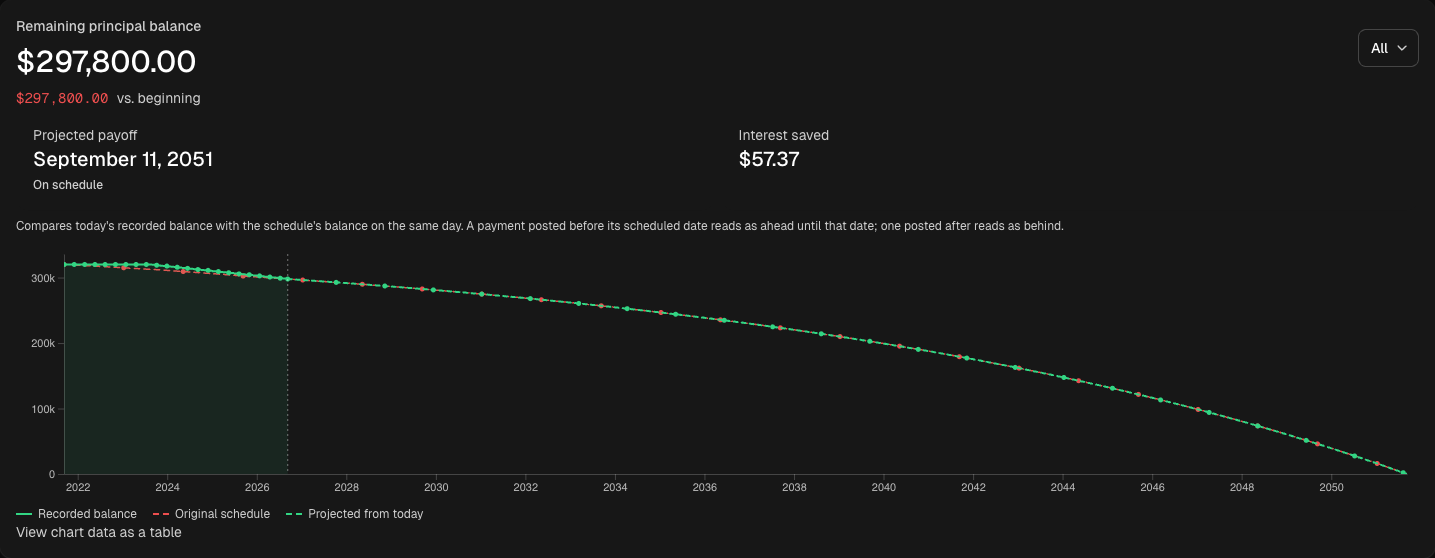
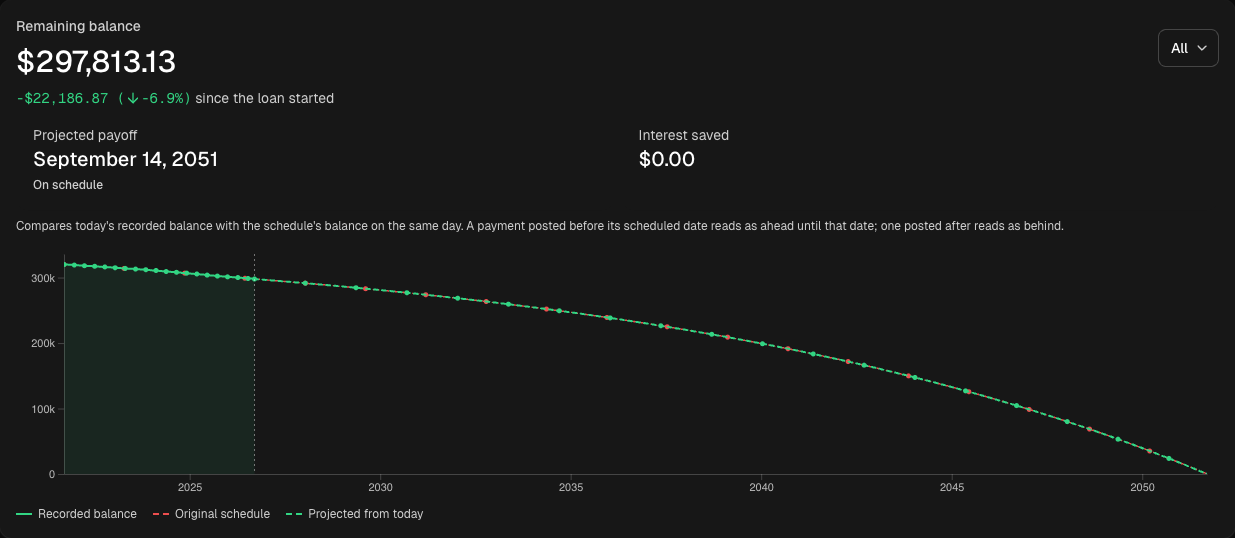
Current loan screenshots for we-promise/sure#3473 and #3474
Light and dark captures from the demo loans: the Schedule tab, Overview tab and rate-change form on #3473's commit, and the loan balance chart on #3474's.

diff --git a/README.md b/README.md
@@ -1,1 +1,10 @@
-Screenshots for we-promise/sure#3473 and we-promise/sure#3474, taken from the demo family's loans built by Demo::Generator. Not code; referenced from the PR threads.
+Screenshots for we-promise/sure#3473 and we-promise/sure#3474, taken from the demo family's loans built by Demo::Generator. Not code; referenced from the PR descriptions and threads.
+
+Current set (2026-09-14), captured in headless Chrome by a scratch system test: #3473's on its own commit, #3474's on its commit stacked on #3473's.
+
+- `3473-mortgage-schedule-tab-{light,dark}.png`: the Schedule tab of the adjustable demo mortgage.
+- `3473-mortgage-overview-tab-{light,dark}.png`: the Overview tab.
+- `3473-mortgage-rate-changes-form-{light,dark}.png`: the loan form with its recorded rate changes.
+- `3474-mortgage-chart-{light,dark}.png`: the loan balance chart card under All.
+
+The earlier set from 2026-09-11 is `3473-mortgage-schedule-tab.png`, `3473-mortgage-rate-changes-form.png` and `3474-mortgage-chart.png`, plus a `3474-mortgage-chart-dark.png` that this set replaces at the branch tip. Older PR comments link to that set through commit `9fa441d4`, where all four files are unchanged.
